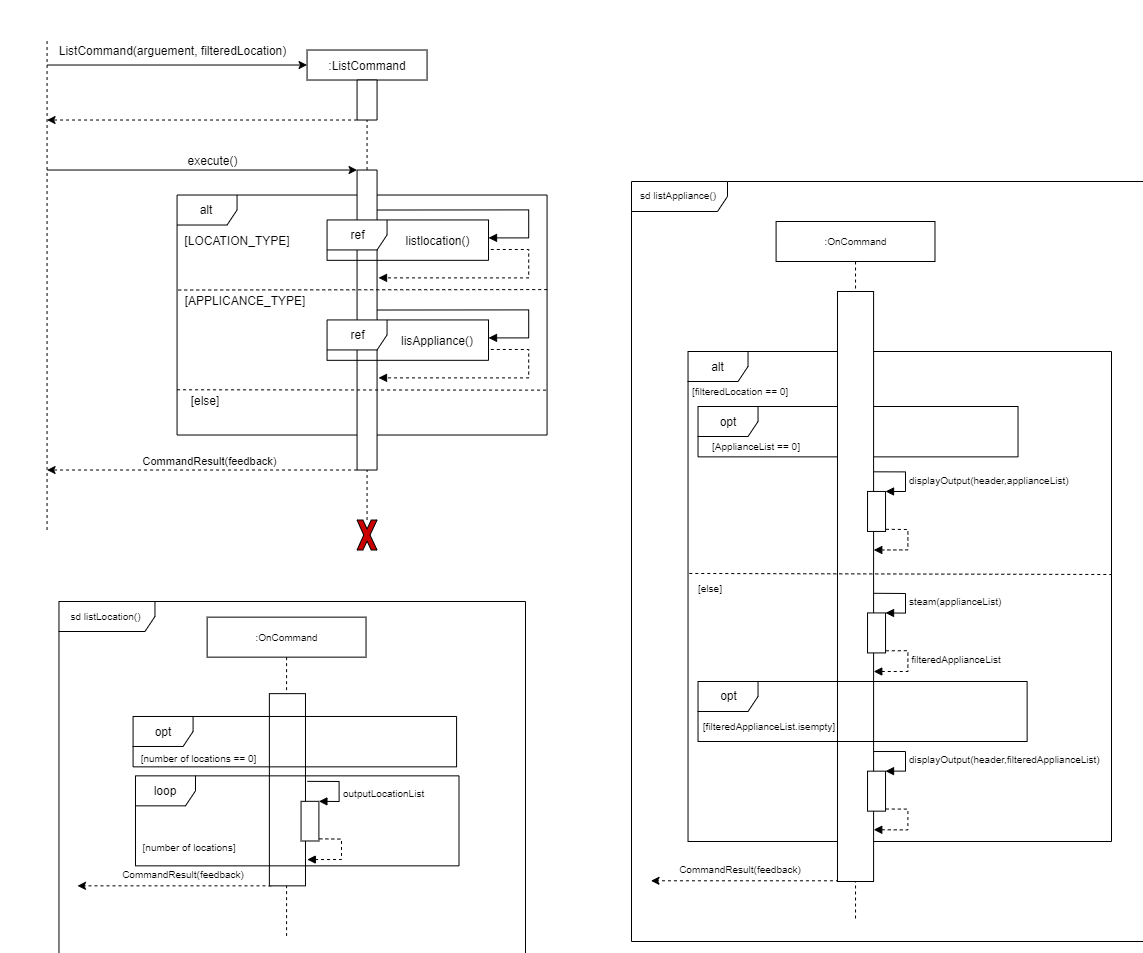
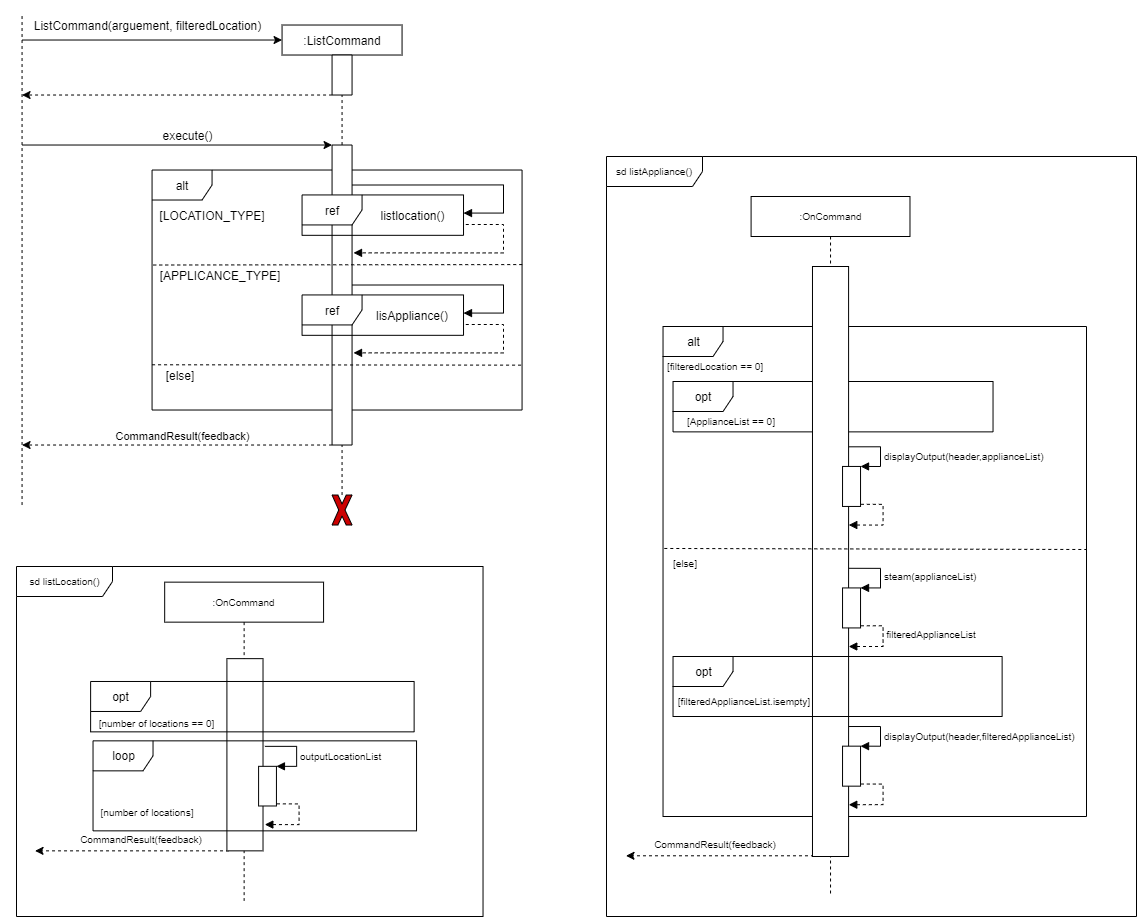
Updated DG and minor code adjustments.

diff --git a/src/main/java/seedu/smarthomebot/storage/ReadStorageFile.java b/src/main/java/seedu/smarthomebot/storage/ReadStorageFile.java
@@ -16,6 +16,7 @@ import seedu.smarthomebot.ui.TextUi;
 import java.io.File;
 import java.io.FileNotFoundException;
 import java.io.IOException;
+import java.util.NoSuchElementException;
 import java.util.Scanner;
 
 import static seedu.smarthomebot.commons.Messages.MESSAGE_APPLIANCE_TYPE_NOT_EXIST;
@@ -36,7 +37,7 @@ public class ReadStorageFile extends StorageFile {
             int i = 0;
             File myFile = new File(FILE_PATH);
             Scanner myReader = new Scanner(myFile);
-            String locationList = myReader.nextLine();
+            String locationList =  myReader.nextLine();
             try {
                 readToLocationList(locationList);
                 readToApplianceList(i, myReader);
@@ -44,11 +45,10 @@ public class ReadStorageFile extends StorageFile {
             } catch (FileCorruptedException e) {
                 ui.printToUser(Messages.MESSAGE_FILE_CORRUPTED);
             }
-
             myReader.close();
         } catch (FileNotFoundException | DuplicateDataException e) {
             ui.printToUser("Load File does not exist. No contents will be loaded.");
-        } catch (IOException e) {
+        } catch (NoSuchElementException e) {
             ui.printToUser("Load File is corrupted.");
         }
     }

diff --git a/src/main/java/seedu/smarthomebot/data/appliance/ApplianceList.java b/src/main/java/seedu/smarthomebot/data/appliance/ApplianceList.java
@@ -32,7 +32,6 @@ public class ApplianceList {
     }
 
     public Appliance getAppliance(int index) {
-        assert index < 0 : "Index should be positive.";
         return applianceList.get(index);
     }
 

diff --git a/docs/DeveloperGuide.md b/docs/DeveloperGuide.md
@@ -13,12 +13,13 @@
   * [Command Component](#command-component)
   * [Storage Component](#storage-component)
   * [Parser Component](#parser-component)
-* [Product scope](#implementation)
+* [Appendix A: Product scope](#Appendix-A:-Product-scope)
   * [Target user profile](#target-user-profile)
   * [Value proposition](#value-proposition) 
-* [User Stories](#user-stories)
-* [Non Functional Requirements](#non-functional-requirements)
-* [Instructions for manual testing](#instructions-for-manual-testing)
+* [Appendix B: User Stories](#Appendix-B:-User-Stories)
+* [Appendix C: Non Functional Requirements](#Appendix-C:-Non-Functional-Requirements)
+* [Appendix D: Glossary](#Appendix-D:-Glossary)
+* [Appendix E: Instructions for manual testing](#Appendix-E:-instructions-for-manual-testing)
 
 ## **Introduction**
 
@@ -115,10 +116,19 @@ The class diagram of `Logic Component` is shown below together with an example:
 6. Shown above is the Sequence Diagram for interactions within the *Logic component* for the when user enter "create br1" and how the API call.
 
 ### Data Component
+
+The class diagram of `Data Component` is shown below:
+
 ![Data Component](images/diagrams/ClassDiagram_DataOverview.png)  <br>
 
+**API** : [Data](https://github.com/AY2021S1-CS2113-T14-1/tp/blob/master/src/main/java/seedu/smarthomebot/data)
+
+
 The *Data Component Diagram* shown above explains the high-level design of the Data which consists of `LocationList` which stores all the locations created by user, `ApplianceList` stores all the appliance which can be created from one of the types - `Fan`, `AirConditioner`,`Light`, or `SmartPlug`. Each appliance creates `Power` which used for computation of power usage. 
- 
+
+---
+<br>
+
 ## Implementation
 
 ### Detailed Data Component 
@@ -358,7 +368,9 @@ determine whether to list the appliances or location, then return a new `Command
 
 The sequence diagram for `ListCommand` is shown below:
 
-![Sequence of List Command](images/diagrams/Sequence_ListCommand.png) <br><br>
+![Sequence of List Command](images/diagrams/Sequence_ListCommand.png) 
+
+<br><br>
 
 As depicted from the diagram, there are 
 2 cases for `ListCommand`:
@@ -463,7 +475,7 @@ The sequence diagram for `ReadStorageFile` is shown below:
 ![StorageFile Model Component](images/diagrams/Sequence_ReadStorageFile.png)
 
 
-## Product scope
+## Appendix A: Product scope
 
 ### Target user profile
 
@@ -475,7 +487,7 @@ This program consolidates all the home appliance’s control into a centralised 
 monitor electricity usage; having a clearer picture of their electrical usage patterns. We can extract the latest 
 electricity price to calculate users’ utility bills. A backlog of the usage can also be recorded. 
 
-## User Stories
+## Appendix B: User Stories
 
 |Version| As a(n) ... | I want to ... | So that I can ...|
 |--------|----------|---------------|------------------|
@@ -488,14 +500,45 @@ electricity price to calculate users’ utility bills. A backlog of the usage ca
 |v2.0|Lazy user|Change the temperature of the air-conditioner and the speed of the fan from SmartHomeBot|Monitor his smart home appliances|
 |v2.0|Experienced SmartHomeBot user|On/OFF appliances by location and list appliances by location|Easily view and manipulate appliances by location|
 
-## Non-Functional Requirements
+## Appendix C: Non-Functional Requirements
 
-{Give non-functional requirements}
+1. Should work on any mainstream OS as long as it has Java 11 or above installed.
 
-## Glossary
+2. Should be able to hold up to 1000 persons without a noticeable sluggishness in performance for typical usage.
 
-* *glossary item* - Definition
+3. A user with above average typing speed for regular English text (i.e. not code, not system admin commands) should be able to accomplish most of the tasks faster using commands than using the mouse.
 
-## Instructions for manual testing
+## Appendix D: Glossary
 
-{Give instructions on how to do a manual product testing e.g., how to load sample data to be used for testing}
+*Mainstream OS*
+
+  **Windows, Linux, Unix, OS-X**
+
+*Home appliance details*
+
+  **House appliance that meant to be recorded and use with SmartHomeBot**
+
+
+## Appendix E: Instructions for Manual Testing
+
+*Launch and Shutdown*
+**Initial launch**
+    i. Download the jar file from the latest release and copy into an empty folder
+    ii. Double-click the jar file
+        Expected: Shows the GUI with some welcome messages. The window size may not be optimum.
+
+*Creating a room and adds a new appliance*
+Creating a new location while it is not existed in the locations list
+Prerequisites: List all locations using the `list location` command. Making sure the name of the new location is not found in the list.
+
+Test case: `create bedroom`
+Expected-printout: Creating Location "bedroom".....CREATED!
+
+Test case: `add coolx l/bedroom w/550 t/fan`
+Expected-printout: ADDING coolx(550W) in bedroom ......ADDED
+
+Test case: `add coolx l/other_room w/550 t/fan`
+Expected-printout: Location does not exist.
+
+Other incorrect wattage value used to try: `add coolx l/bedroom w/xyz t/fan` (where wattage has to be in valid integer value)
+Expected-printout: Please enter a valid numerical value.
